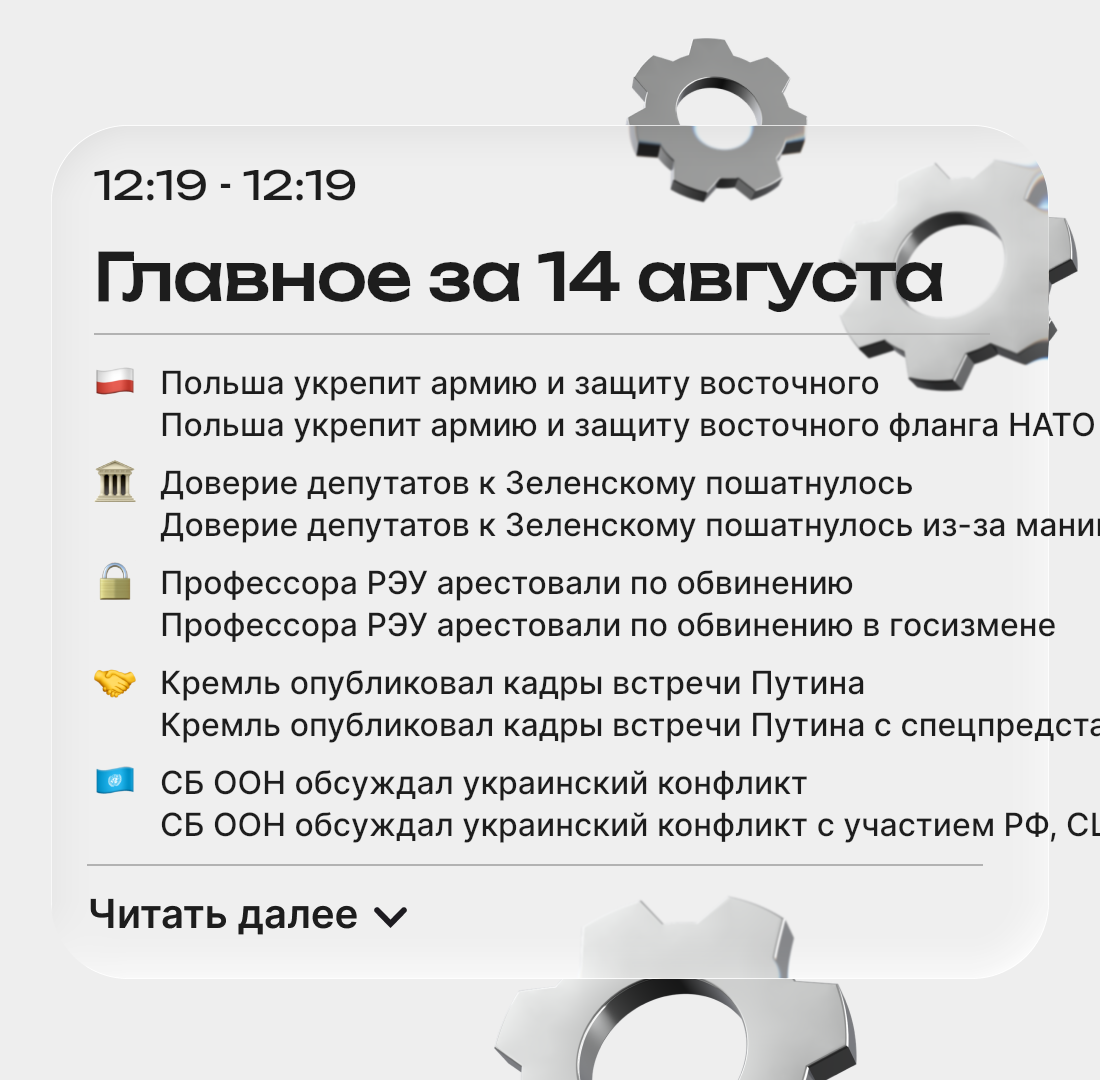
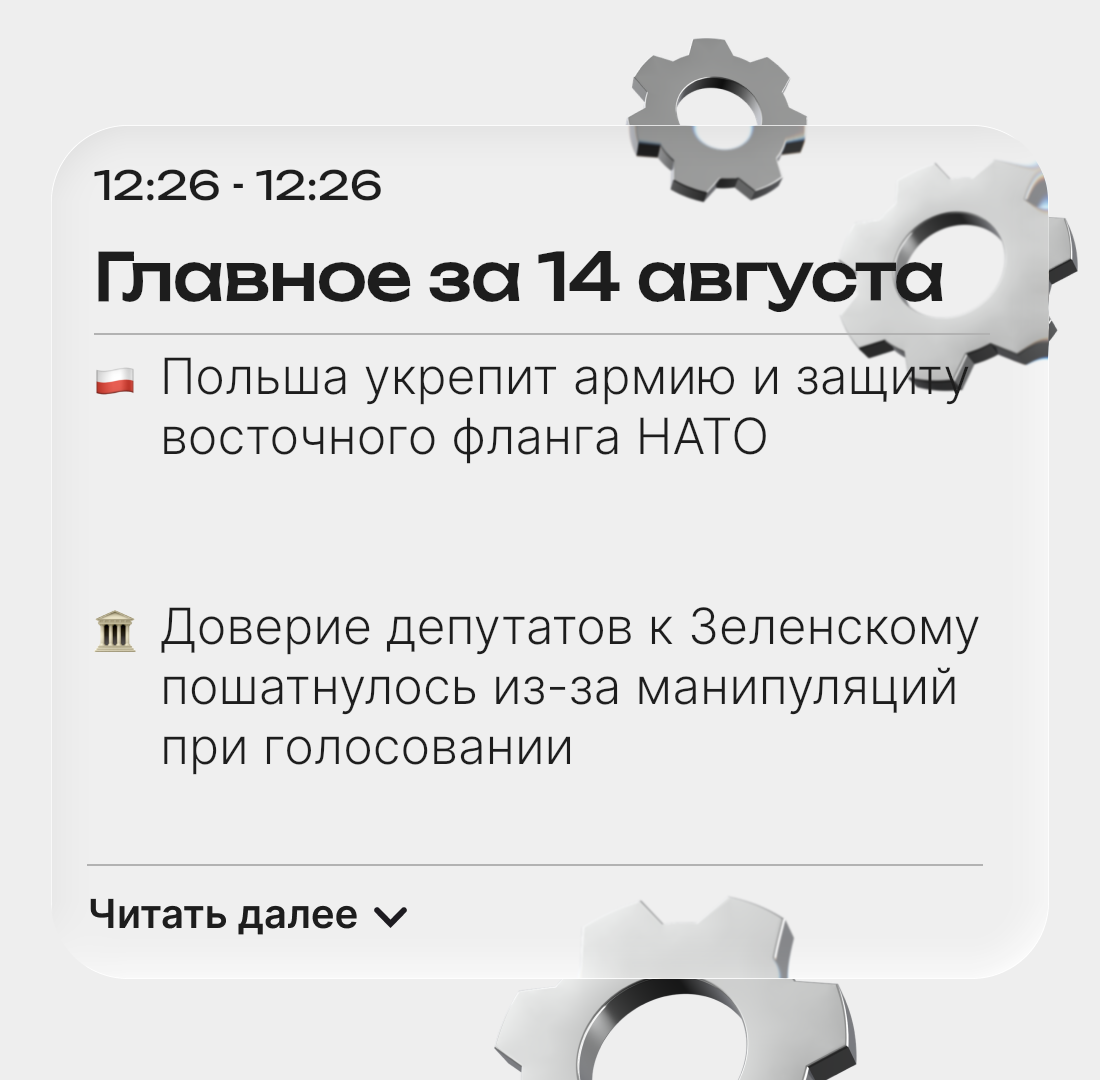
adjust fonts and heights

diff --git a/src/canvas/canvas.ts b/src/canvas/canvas.ts
@@ -172,7 +172,7 @@ function drawSummary(
   const xEmoji = 94;
   const xTitle = 160;
   let incrementY = 100;
-  const lineHeight = 42;
+  let lineHeight = 42;
   const imageHeight = 42;
 
   ctx.fillStyle = "#1d1d1dff";
@@ -182,7 +182,8 @@ function drawSummary(
   let maxLines = 2;
   if (summary.length <= 2) {
     incrementY = 250;
-    ctx.font = "500 50px Inter";
+    lineHeight = 60;
+    ctx.font = "400 50px Inter";
     splitLength = 30;
     maxLines = 3;
   }
